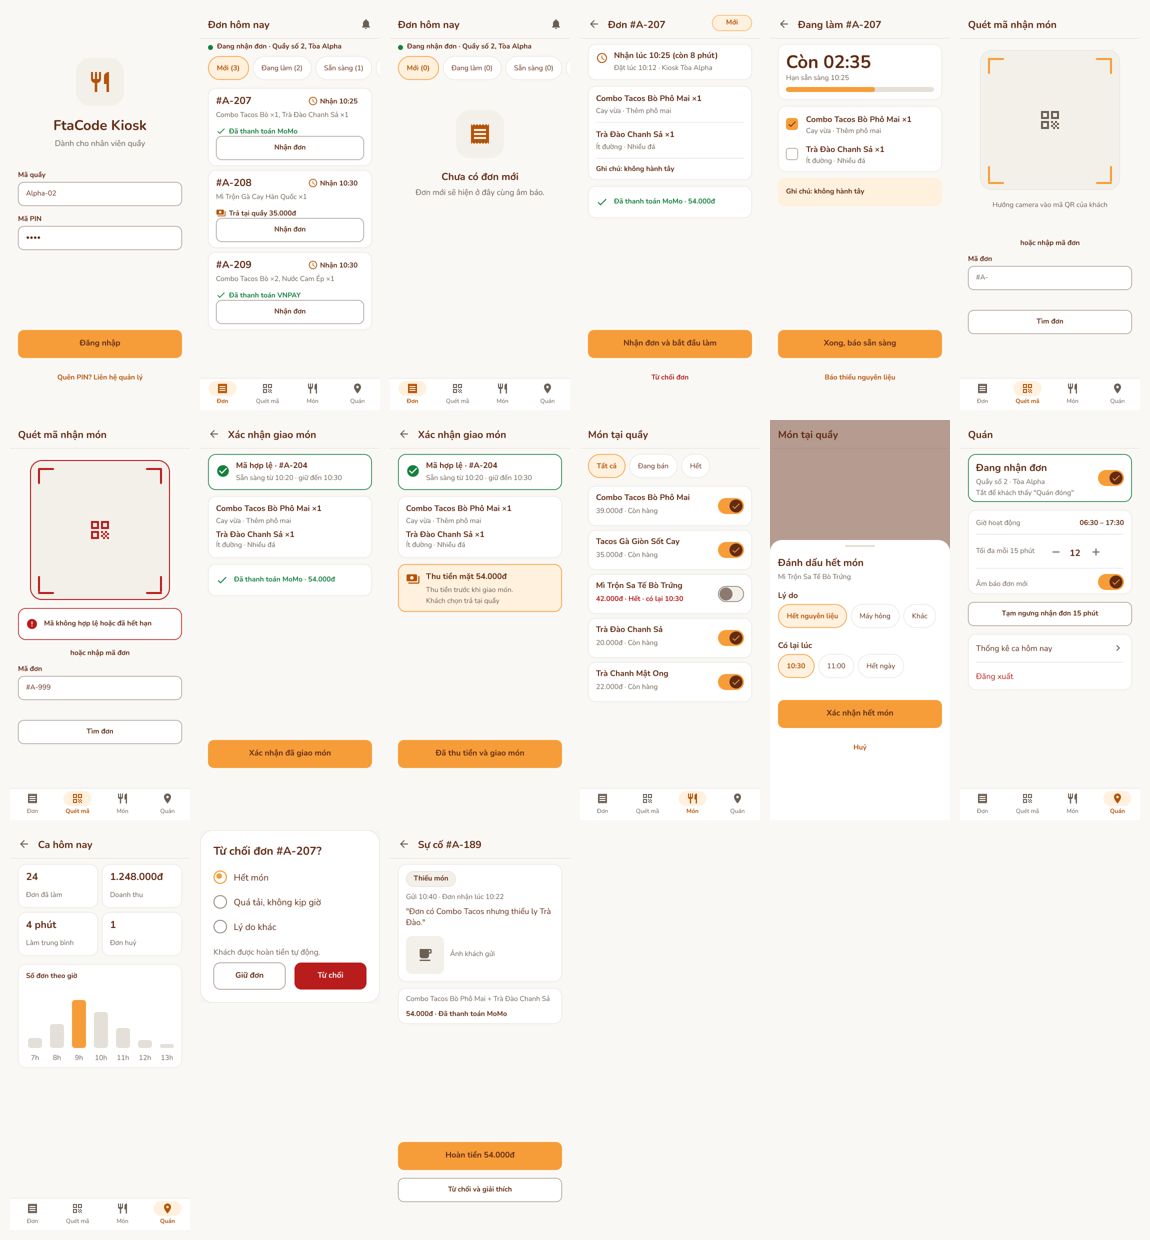
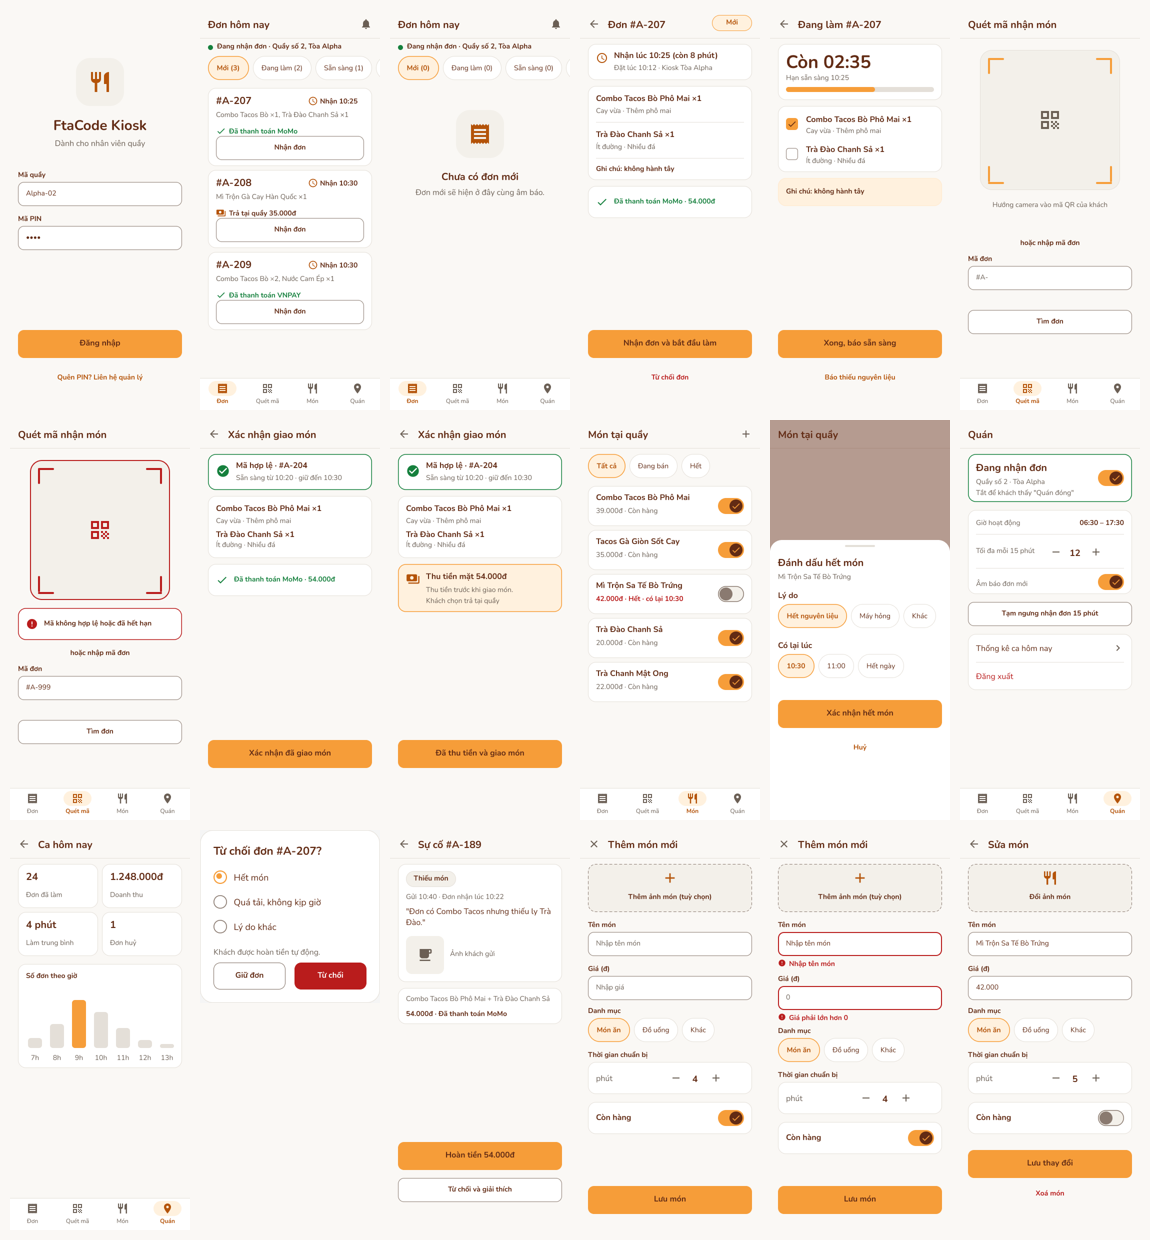
Add seller add/edit dish screens K14-K15, update docs

diff --git a/ai/phan-bien-giao-dien/03-bao-cao-tong-hop.md b/ai/phan-bien-giao-dien/03-bao-cao-tong-hop.md
@@ -84,7 +84,7 @@ Page 03 của Figma [PRM323](https://www.figma.com/design/5vloc9G7UcEI9NYJGpTqN0
 | Sau khi nhận món | S23 Đánh giá món · S24 Báo sự cố |
 | Hẹn giờ | S25 Hẹn giờ theo slot |
 | Bổ sung | S26 Đăng nhập · S26-OTP · S27 Chọn Kiosk · S28 Kết quả tìm kiếm · S28-EMPTY · S29 Mã giảm giá · S30 Mất kết nối · S02-LOADING |
-| App người bán | K01 Đăng nhập · K02 Danh sách đơn · K02-EMPTY · K03 Chi tiết đơn · K04 Đang chuẩn bị · K05 Quét mã · K05-ERR · K06 Xác nhận giao · K06-CASH · K08 Quản lý món · K09 Hết món · K10 Quán · K11 Thống kê ca · K12 Từ chối đơn · K13 Sự cố ([`design/kitchen-app.md`](../../design/kitchen-app.md)) |
+| App người bán | K01 Đăng nhập · K02 Danh sách đơn · K02-EMPTY · K03 Chi tiết đơn · K04 Đang chuẩn bị · K05 Quét mã · K05-ERR · K06 Xác nhận giao · K06-CASH · K08 Quản lý món · K09 Hết món · K10 Quán · K11 Thống kê ca · K12 Từ chối đơn · K13 Sự cố · K14 Thêm món mới · K14-ERR · K15 Sửa món ([`design/kitchen-app.md`](../../design/kitchen-app.md)) |
 
 S02 và S21 có chuông thông báo dẫn tới S19. S23 dùng thang số 1–5 thay cho mặt cười.
 
@@ -102,7 +102,7 @@ S02 và S21 có chuông thông báo dẫn tới S19. S23 dùng thang số 1–5 
 
 ### Số đo sau khi vẽ lại
 
-Ảnh v2 xuất từ Figma: [`assets/figma/final-ui-v2/`](../../assets/figma/final-ui-v2/) (tổng quan: `contact-sheet-s01-s08.png`, `contact-sheet-s09-s25.png`). Đo bằng `python tests/audit/measure.py v2` và Figma Plugin API trên 108 khung (55 ở 360 dp, 53 ở 412 dp).
+Ảnh v2 xuất từ Figma: [`assets/figma/final-ui-v2/`](../../assets/figma/final-ui-v2/) (tổng quan: `contact-sheet-s01-s08.png`, `contact-sheet-s09-s25.png`). Đo bằng `python tests/audit/measure.py v2` và Figma Plugin API trên 114 khung (58 ở 360 dp, 56 ở 412 dp).
 
 | Chỉ số | Bản cũ | v2 |
 |---|---|---|
@@ -111,20 +111,20 @@ S02 và S21 có chuông thông báo dẫn tới S19. S23 dùng thang số 1–5 
 | Ký tự emoji | 98/366 chữ | 0 |
 | Chữ dưới 14 sp | 86 dòng ở 8 màn | 0, trừ nhãn thanh dưới 12 sp |
 | Chữ thiếu tương phản | 8 chỗ | 0 |
-| Vùng bấm dưới 48 dp | 20/39 | 0/204 |
+| Vùng bấm dưới 48 dp | 20/39 | 0/217 |
 | Chữ tràn khỏi khung 360 × 800 | — | 0 |
 
 ### Prototype và màn 412 dp
 
-- Prototype v2 nối ngay trên Page 03: 207 liên kết giữa 55 khung (gồm S06-LOADING, S02-LOADING, K02-EMPTY tự chuyển; S07-DIALOG, K12 dạng overlay), 12 điểm bắt đầu gồm cả luồng người bán. Vùng bấm đọc ra `tests/figma-proto/hotspots-v2.json`.
+- Prototype v2 nối ngay trên Page 03: 217 liên kết giữa 58 khung (gồm S06-LOADING, S02-LOADING, K02-EMPTY tự chuyển; S07-DIALOG, K12 dạng overlay), 12 điểm bắt đầu gồm cả luồng người bán. Vùng bấm đọc ra `tests/figma-proto/hotspots-v2.json`.
 - Kiểm đồ thị flow v2: `PROTO=v2 npx playwright test graph.spec.js` đạt 7/7 (không màn cụt, không màn mồ côi, đặt đơn S02 → S07 mất 3 chạm, F3 có lối về S07-CASH và S05).
-- 53 khung có bản 412 dp (" v2 · 412", dùng constraints), gồm toàn bộ màn khách và người bán trừ hai dialog. Ảnh S02, S05, S06, S07 ở `assets/figma/final-ui-v2/412/`.
+- 56 khung có bản 412 dp (" v2 · 412", dùng constraints), gồm toàn bộ màn khách và người bán trừ hai dialog. Ảnh S02, S05, S06, S07 ở `assets/figma/final-ui-v2/412/`.
 
 ## 5. Quyết định phạm vi mới
 
 | Mã | Quyết định | Lý do |
 |---|---|---|
-| D43 | Thêm app người bán K01–K13 và S26–S30 vào phạm vi (trước đây app phía quầy nằm ngoài phạm vi ở P0) | Đơn của khách cần quầy nhận, làm, giao; các màn S07, S20, S21, S22, S24 đã dựa vào thao tác phía quầy |
+| D43 | Thêm app người bán K01–K15 và S26–S30 vào phạm vi (trước đây app phía quầy nằm ngoài phạm vi ở P0) | Đơn của khách cần quầy nhận, làm, giao; các màn S07, S20, S21, S22, S24 đã dựa vào thao tác phía quầy |
 
 ## 6. Việc còn lại
 

diff --git a/README.md b/README.md
@@ -19,7 +19,7 @@
 
 - **Persona chính:** Nguyễn Minh Quân, 20 tuổi, sinh viên năm 2 ở ký túc xá, có khoảng 15 phút giữa hai slot, dùng điện thoại một tay khi đi bộ.
 - **Tiêu chí thành công:** đặt xong một đơn dưới 35 giây, tối đa 8 chạm từ Trang chủ.
-- **Phạm vi:** app khách 30 màn 360 × 800 dp (S01–S30) và app người bán 13 màn (K01–K13) cùng các biến thể, user flow có nhánh lỗi, Design System bằng Figma Variables, component có variant, prototype Figma. Không có mã nguồn Flutter (đề: `Coding: None`).
+- **Phạm vi:** app khách 30 màn 360 × 800 dp (S01–S30) và app người bán 15 màn (K01–K15) cùng các biến thể, user flow có nhánh lỗi, Design System bằng Figma Variables, component có variant, prototype Figma. Không có mã nguồn Flutter (đề: `Coding: None`).
 
 ## 2. Link thiết kế
 
@@ -55,7 +55,7 @@ PRM323-Lab2-Group2/
 │   ├── p4-detailed-ui-prototype.md
 │   ├── screen-spec.md            │  đặc tả S01–S08
 │   ├── screens-s09-s30.md        │  đặc tả S09–S30
-│   ├── kitchen-app.md            │  đặc tả app người bán K01–K13
+│   ├── kitchen-app.md            │  đặc tả app người bán K01–K15
 │   └── design-decisions.md
 ├── ai/                           ← NHẬT KÝ AI & PHẢN BIỆN
 │   ├── ai-design-log.md          │  prompt nguyên văn, vòng lặp, phản biện, quyết định D01–D42
@@ -67,7 +67,7 @@ PRM323-Lab2-Group2/
 │   ├── concepts/                 │  3 hướng visual cho P3
 │   └── figma/
 │       ├── final-ui/             │  S01–S08 và biến thể (bản cũ)
-│       ├── final-ui-v2/          │  Final UI v2: S01–S30, K01–K13, ảnh 412 dp, ảnh tổng quan
+│       ├── final-ui-v2/          │  Final UI v2: S01–S30, K01–K15, ảnh 412 dp, ảnh tổng quan
 │       ├── final-ui-s09-s25/     │  S09–S25 (bản cũ) và ảnh tổng quan
 │       └── design-system/        │  token và component
 ├── handoff/
@@ -107,7 +107,7 @@ Nhật ký AI: [`ai/ai-design-log.md`](ai/ai-design-log.md) · [`ai/ai-evaluatio
 
 | Hạng mục | Trạng thái | Bằng chứng |
 |---|---|---|
-| Final UI v2 | 55 khung 360 dp (30 màn khách, 13 màn người bán và biến thể) và 53 khung 412 dp; không emoji, vùng bấm ≥ 48 dp, chữ ≥ 14 sp; ảnh ở `assets/figma/final-ui-v2/` | [`ai/phan-bien-giao-dien/03-bao-cao-tong-hop.md`](ai/phan-bien-giao-dien/03-bao-cao-tong-hop.md) |
+| Final UI v2 | 58 khung 360 dp (30 màn khách, 15 màn người bán và biến thể) và 56 khung 412 dp; không emoji, vùng bấm ≥ 48 dp, chữ ≥ 14 sp; ảnh ở `assets/figma/final-ui-v2/` | [`ai/phan-bien-giao-dien/03-bao-cao-tong-hop.md`](ai/phan-bien-giao-dien/03-bao-cao-tong-hop.md) |
 | Phản biện giao diện | Báo cáo đo A01–A15 và bảng quyết định; phản biện của AI khác chờ chạy | [`ai/phan-bien-giao-dien/`](ai/phan-bien-giao-dien/) |
 | Flow | F1–F11 đã vẽ, có Input/Output; Flow 1–3 đã nối prototype | `ux/user-flow.md` · `ux/userflow/` |
 | Wireframe | Đủ các màn và biến thể | `ux/wireframe/` |

diff --git a/design/screens-s09-s30.md b/design/screens-s09-s30.md
@@ -5,7 +5,7 @@
 
 ![S09–S25](../assets/figma/final-ui-s09-s25/contact-sheet.png)
 
-Cùng S01–S08 ([`screen-spec.md`](screen-spec.md)), S09–S30 tạo thành bộ 30 màn của app khách, đủ vòng đời một đơn hàng. Phía quầy có app riêng: [`kitchen-app.md`](kitchen-app.md). Wireframe nằm ở Page 02 (`ux/wireframe/`), user flow F4–F11 ở Page 01 (`ux/userflow/`).
+Cùng S01–S08 ([`screen-spec.md`](screen-spec.md)), S09–S30 tạo thành bộ 30 màn của app khách, đủ vòng đời một đơn hàng. Phía quầy có app riêng (K01–K15): [`kitchen-app.md`](kitchen-app.md). Wireframe nằm ở Page 02 (`ux/wireframe/`), user flow F4–F11 ở Page 01 (`ux/userflow/`).
 
 ## 1. Vì sao có các màn này
 
@@ -85,7 +85,7 @@ Mỗi flow trong Figma có dải **INPUT → OUTPUT** ở đầu.
 
 | Khoảng trống | Xử lý |
 |---|---|
-| Phía quầy: không có màn nào cho người bán | App người bán K01–K13 ([`kitchen-app.md`](kitchen-app.md)) |
+| Phía quầy: không có màn nào cho người bán | App người bán K01–K15 ([`kitchen-app.md`](kitchen-app.md)) |
 | Link đăng nhập ở S01 không dẫn tới đâu | S26, S26-OTP |
 | Địa điểm ở S02 không bấm được | S27 |
 | Ô tìm kiếm ở S02, S03 không dẫn tới đâu | S28, S28-EMPTY |

diff --git a/docs/tien-do/TIEN-DO.md b/docs/tien-do/TIEN-DO.md
@@ -105,7 +105,7 @@ Cột "Ai làm tiếp": **Bạn** = cần tài khoản Figma/Stitch/GitHub hoặ
 | # | Bước | Tình trạng | Ghi chú | Ai làm tiếp |
 |---|---|---|---|---|
 | 43 | **Usability test 3–5 người** | ❌ | **Critical của G5**; mẫu ghi kết quả: `docs/test-reports/usability-test-mau.md` | **Bạn** |
-| 43a | Phản biện giao diện, vẽ lại Final UI v2 | 🟡 | Báo cáo đo A01–A15, v2 đủ S01–S30 và app người bán K01–K13, ảnh, số đo, bản 412 dp; chờ phản biện của AI khác · `ai/phan-bien-giao-dien/` | **Bạn** |
+| 43a | Phản biện giao diện, vẽ lại Final UI v2 | 🟡 | Báo cáo đo A01–A15, v2 đủ S01–S30 và app người bán K01–K15, ảnh, số đo, bản 412 dp; chờ phản biện của AI khác · `ai/phan-bien-giao-dien/` | **Bạn** |
 | 43b | Test tự động prototype bằng Playwright | ✅ | 13/13 đạt (20/10); bắt được lỗi vùng bấm Figma đang màu cam (đã sửa); còn 2 điểm lệch tài liệu · `tests/` · `docs/test-reports/` | Chạy lại sau khi sửa Figma |
 | 44 | Handoff 6 mục/màn + 2 bảng mapping | ✅ | `handoff/flutter-handoff.md` (mục 5: v2, S01–S25) | — |
 | 45a | README đủ | ✅ | Có 5 thành viên, lớp SE1919 | — |

diff --git a/ux/p0-problem-framing.md b/ux/p0-problem-framing.md
@@ -58,7 +58,7 @@ Theo chuẩn của môn: **Fact** = Observed/Reported · **Hypothesis** = Inferr
 
 | Trong phạm vi | Ngoài phạm vi |
 |---|---|
-| App khách S01–S30 và app người bán K01–K13 · nhận tại quầy · QR / ví / tiền mặt · theo dõi đơn 4 bước · light theme · 360 × 800 dp, kiểm 412 dp | Giao hàng tận nơi · đăng nhập tích điểm · dark mode · thiết kế tablet · code Flutter |
+| App khách S01–S30 và app người bán K01–K15 · nhận tại quầy · QR / ví / tiền mặt · theo dõi đơn 4 bước · light theme · 360 × 800 dp, kiểm 412 dp | Giao hàng tận nơi · đăng nhập tích điểm · dark mode · thiết kế tablet · code Flutter |
 
 ## 6. AI phản biện và quyết định
 

diff --git a/ux/user-flow.md b/ux/user-flow.md
@@ -13,7 +13,7 @@ Mỗi flow gồm:
 
 App có 13 flow của khách và các flow của người bán. **F1–F3** là ba flow bắt buộc của Lab 2 (có nhánh lỗi, đã nối prototype); **F4–F11** mô tả S09–S25; **F12–F13** là mất kết nối và đang tải ([`design/screens-s09-s30.md`](../design/screens-s09-s30.md)); flow người bán nằm ở [`design/kitchen-app.md`](../design/kitchen-app.md).
 
-Mã màn: **S01–S30** (khách) và **K01–K13** (người bán); biến thể gắn hậu tố (`S06-ERR`, `S05-EMPTY`…).
+Mã màn: **S01–S30** (khách) và **K01–K15** (người bán); biến thể gắn hậu tố (`S06-ERR`, `S05-EMPTY`…).
 
 ![3 flow lõi có Input/Output](userflow/flows-core-io.png)
 

diff --git a/tests/README.md b/tests/README.md
@@ -55,7 +55,7 @@ Ngoài test flow, `audit/` phục vụ bước phản biện giao diện: `captu
 
 ## Prototype v2
 
-`figma-proto/hotspots-v2.json` là vùng bấm của prototype Final UI v2 (Page 03, 55 khung gồm app người bán, đọc từ Figma Plugin API). Kiểm đồ thị flow v2:
+`figma-proto/hotspots-v2.json` là vùng bấm của prototype Final UI v2 (Page 03, 58 khung gồm app người bán, đọc từ Figma Plugin API). Kiểm đồ thị flow v2:
 
 ```bash
 PROTO=v2 npx playwright test graph.spec.js          # bash
